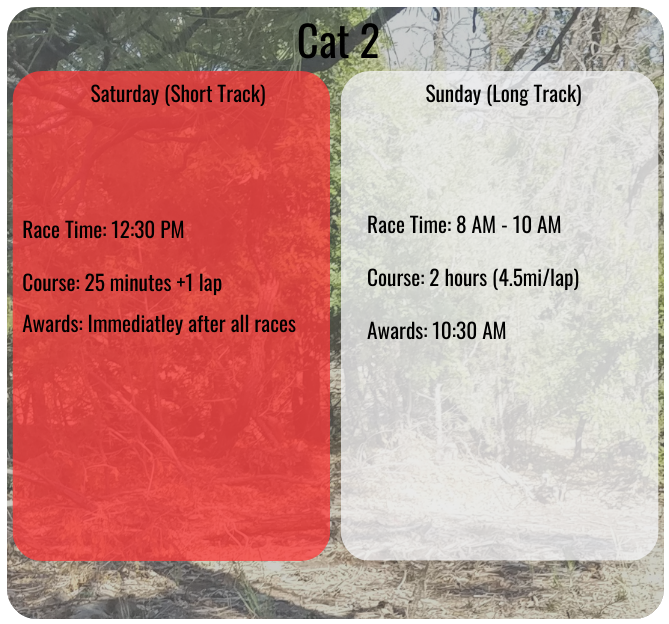
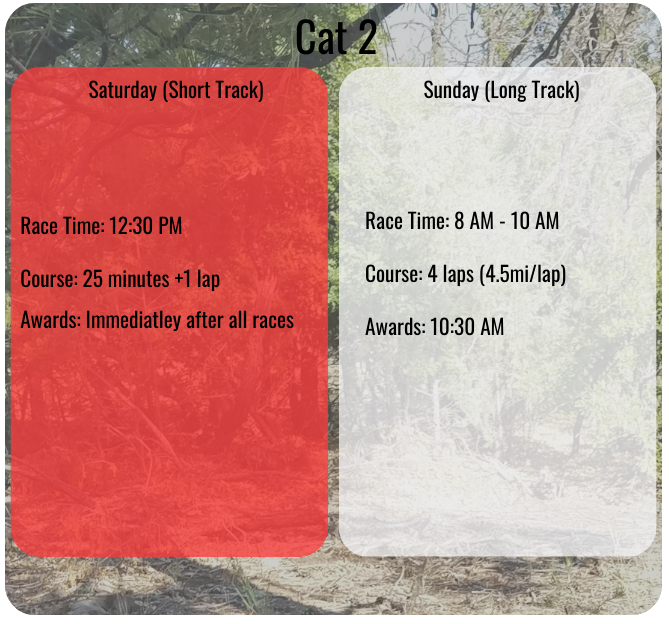
updated cat card info

diff --git a/raceinfo.html b/raceinfo.html
@@ -77,7 +77,7 @@
 		<h3 class="center-content">This is the state championship, the rider that accumulates more points during the two races, short track and long track, will win the title.</h3>
 		<h3 class="center-content">You must hold a 2025 USAC annual license to compete for the State Championship.</h3>
 	</div>
-	<div class="floatpara">
+	<div class="floatpara" style="background-color: #f7f7f7">
 	<h1 class="center-content" id="packet">Packet Pickup</h1>
 	<br></br>
 	<h2>Friday Registration & Packet Pick-Up (September 26th, 2025)</h2>
